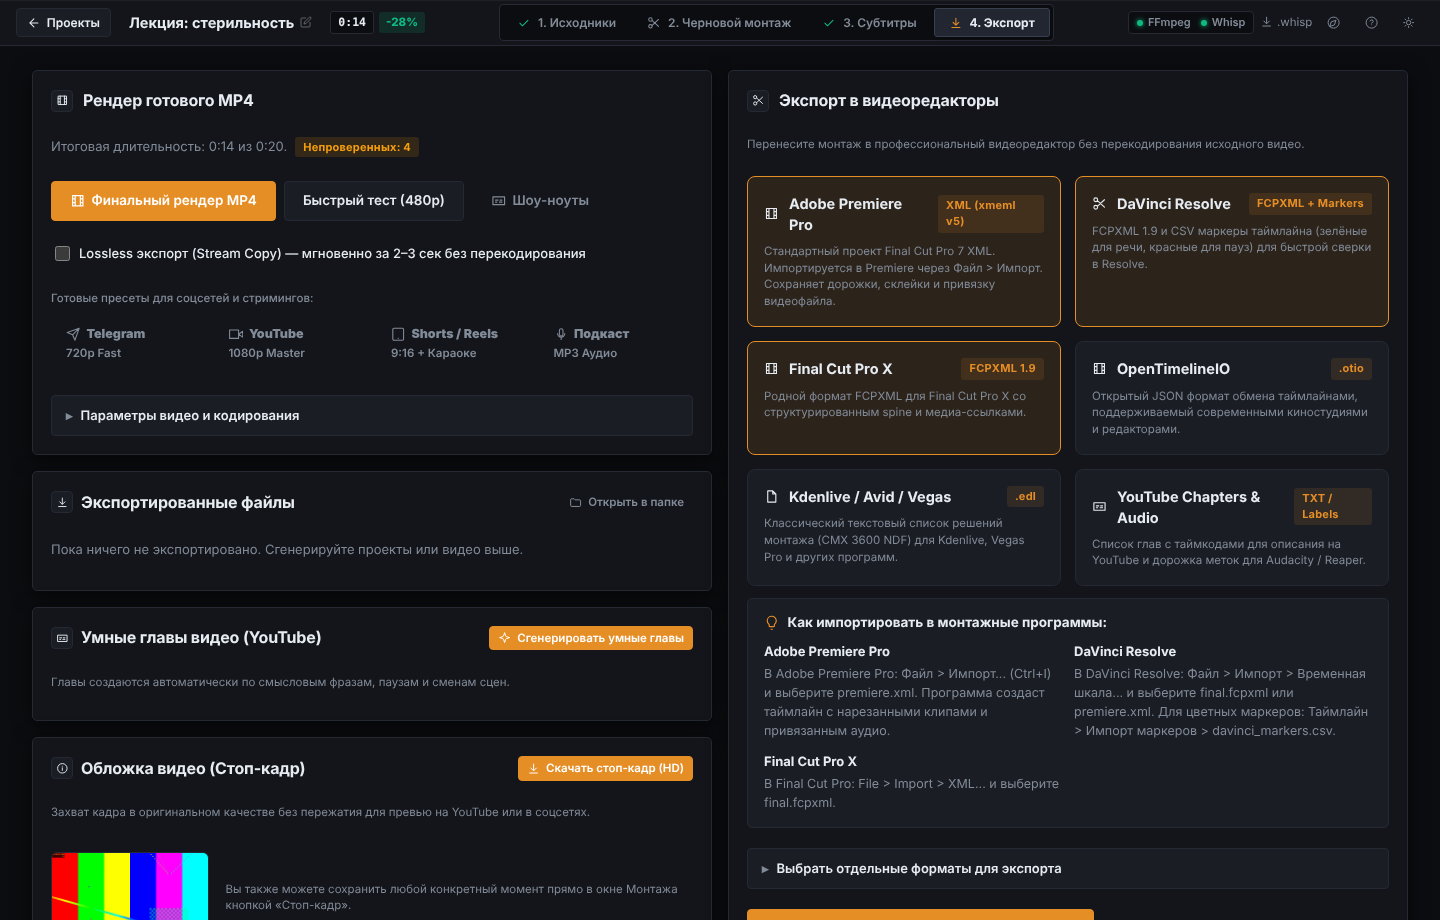
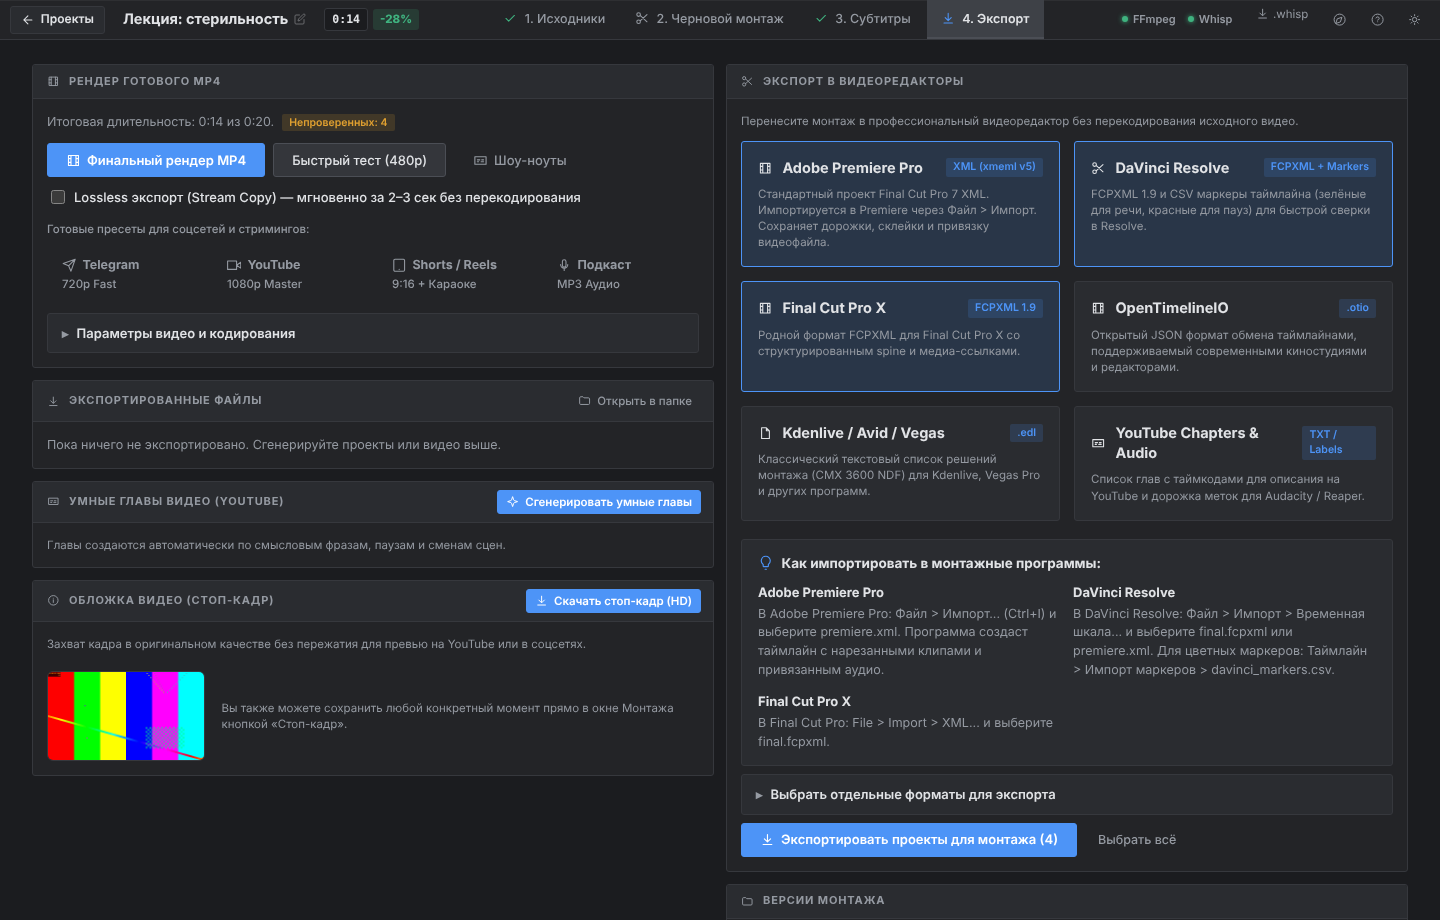
UI: профессиональный проход: нейтральный графит, один синий акцент, плоские панели с заголовками, вкладки с подчёркиванием, компактные кнопки и поля
Claude-Session: https://claude.ai/code/session_01DF561mnDsFx3onGChxrfzS

diff --git a/frontend/src/styles.css b/frontend/src/styles.css
@@ -1562,3 +1562,132 @@ label.nle-btn-ghost { flex-direction: row; align-items: center; gap: 6px; font-s
 .bar > i { display: block; height: 100%; background: var(--accent); }
 .platform-preset-btn { border: 1px solid var(--line); background: var(--panel2); }
 .platform-preset-btn:hover:not(:disabled) { border-color: var(--line-strong); }
+
+/* ==========================================================================
+   ПРОФЕССИОНАЛЬНЫЙ ПРОХОД: нейтральный графит, один акцент, плоские панели,
+   плотная сетка, тонкие разделители. Переопределяет токены и компоненты выше.
+   ========================================================================== */
+:root {
+  --bg: #1b1c1f; --panel: #232427; --panel2: #2a2c30; --raised: #34363b; --raised-hover: #3e4147;
+  --line: #36383d; --line-strong: #4b4e55; --text: #e1e3e6; --muted: #959aa2; --muted-soft: #666b73;
+  --accent: #4d94f7; --accent-hover: #6aa6f9; --accent-soft: rgba(77, 148, 247, 0.16); --on-accent: #fff;
+  --manual: #a78bfa; --manual-soft: rgba(167, 139, 250, 0.16);
+  --warn: #e0a030; --warn-soft: rgba(224, 160, 48, 0.16);
+  --keep: #3fb27f; --keep-soft: rgba(63, 178, 127, 0.16); --ok: #3fb27f; --ok-soft: rgba(63, 178, 127, 0.16);
+  --cut: #e5534b; --cut-soft: rgba(229, 83, 75, 0.16); --bad: #e5534b; --bad-soft: rgba(229, 83, 75, 0.16);
+  --timeline-bg: #151618; --track-bg: #1d1e21; --track-v1: #212225; --tc-bg: #141517; --code-bg: #151618;
+  --radius: 3px; --radius-sm: 3px; --shadow: none;
+}
+:root[data-theme="light"] {
+  --bg: #e4e6ea; --panel: #f6f7f9; --panel2: #ebedf0; --raised: #dfe2e6; --raised-hover: #d3d7dc;
+  --line: #cfd3d9; --line-strong: #aeb4bd; --text: #1d2026; --muted: #5d636d; --muted-soft: #80868f;
+  --accent: #2468d8; --accent-hover: #1a56bb; --accent-soft: rgba(36, 104, 216, 0.12);
+  --manual: #7c5ce0; --manual-soft: rgba(124, 92, 224, 0.12);
+  --timeline-bg: #d6d9de; --track-bg: #dfe2e6; --track-v1: #e8eaee; --tc-bg: #fff; --code-bg: #fff;
+  --shadow: none;
+}
+html, body { font-size: 12.5px; line-height: 1.4; }
+h1 { font-size: 18px; } h2 { font-size: 14px; } h3 { font-size: 13px; }
+* { scrollbar-width: thin; scrollbar-color: var(--line-strong) transparent; }
+*::-webkit-scrollbar { width: 10px; height: 10px; }
+*::-webkit-scrollbar-thumb { background: var(--line-strong); border-radius: 5px; border: 2px solid transparent; background-clip: content-box; }
+::selection { background: var(--accent-soft); }
+:focus-visible { outline: 2px solid var(--accent); outline-offset: 1px; }
+
+/* Шапка и вкладки: подчёркнутый текст вместо «таблеток» */
+.nle-manager-header { height: 40px; min-height: 40px; box-shadow: none; padding: 0 14px; background: var(--panel); }
+.nle-header-brand img { width: 22px; height: 22px; border-radius: 3px; }
+.brand-title { font-size: 12px; letter-spacing: .1em; }
+.nle-manager-tabs, .nle-workspaces { background: none; border: none; padding: 0; gap: 2px; align-self: stretch; }
+.nle-tab, .nle-workspace-tab {
+  border: none; border-radius: 0; background: none; box-shadow: none; padding: 0 14px; height: 100%;
+  border-bottom: 2px solid transparent; color: var(--muted); font-weight: 500; font-size: 12.5px;
+}
+.nle-tab:hover, .nle-workspace-tab:hover { background: var(--panel2); color: var(--text); }
+.nle-tab.active, .nle-workspace-tab.active { background: none; box-shadow: none; border: none; border-bottom: 2px solid var(--accent); color: var(--text); font-weight: 600; }
+.nle-engine-status { background: none; border: none; padding: 0; gap: 12px; }
+.nle-header { height: 40px; min-height: 40px; padding: 0 10px; }
+
+/* Кнопки и поля: компактные, плоские */
+button, a.btn { height: 28px; padding: 0 12px; font-weight: 500; font-size: 12.5px; background: var(--raised); border-color: var(--line-strong); }
+button:hover:not(:disabled), a.btn:hover { background: var(--raised-hover); }
+button:active:not(:disabled), a.btn:active { transform: none; background: var(--panel2); }
+button.primary, a.btn.primary { background: var(--accent); border-color: var(--accent); color: #fff; font-weight: 600; }
+button.big, a.btn.big { height: 34px; padding: 0 18px; font-size: 13px; }
+button.small, a.btn.small { height: 24px; padding: 0 8px; font-size: 11.5px; }
+button.ghost, .nle-btn-ghost { background: transparent; border-color: transparent; }
+.nle-btn-ghost { height: 28px; padding: 0 10px; }
+input, select, textarea { height: 28px; padding: 0 9px; font-size: 12.5px; background: var(--bg); border-color: var(--line-strong); }
+textarea { height: auto; padding: 7px 9px; }
+input[type=checkbox], input[type=radio] { height: 14px; width: 14px; }
+select { padding-right: 24px; }
+label { font-weight: 500; font-size: 11.5px; }
+.badge { border-radius: 2px; font-weight: 600; font-size: 10.5px; padding: 1px 6px; text-transform: none; letter-spacing: 0; }
+kbd { border-radius: 2px; }
+
+/* Панели вместо карточек: заголовок-полоса, без теней и скруглений */
+.card { padding: 0; gap: 0; border-radius: var(--radius); box-shadow: none; background: var(--panel); overflow: hidden; }
+.card > .card-title { padding: 8px 12px; background: var(--panel2); border-bottom: 1px solid var(--line); gap: 8px; min-height: 34px; }
+.card > .card-title h2, .card > .card-title h3 { font-size: 11px; font-weight: 700; letter-spacing: .08em; text-transform: uppercase; color: var(--muted); }
+.card > .card-title .num { background: none; border: none; width: 16px; height: 16px; color: var(--muted); }
+.card > .card-title .num.done { background: none; color: var(--ok); }
+.card > *:not(.card-title) { margin-left: 14px; margin-right: 14px; }
+.card > .card-title + * { margin-top: 14px; }
+.card > *:last-child { margin-bottom: 14px; }
+.card > details.more, .card > .notice { margin-left: 14px; margin-right: 14px; }
+.card > .row.wrap > .grow, .card > .row { min-width: 0; }
+.grid2 { gap: 12px; } .stack { gap: 12px; }
+.notice { border-radius: 3px; padding: 8px 12px; }
+.next-bar, .nle-next-bar { border-radius: 3px; box-shadow: none; padding: 10px 14px; margin-top: 12px; }
+.profile, .model, .pattern-card, .nle-card, .nle-scene-card { border-radius: 3px; }
+.profile.on, .pattern-card.active { box-shadow: none; border-color: var(--accent); background: var(--accent-soft); }
+.profile { padding: 12px; gap: 6px; } .profile b { font-size: 13px; }
+details.more { border-radius: 3px; background: var(--panel2); }
+.pick { border-radius: 3px; padding: 16px; }
+.filecard { border-radius: 3px; }
+.empty { padding: 28px 16px; }
+.page { padding: 20px 24px 40px; gap: 12px; }
+.page-head h1, .page-head h2 { font-size: 18px; }
+
+/* Список проектов: сетка и карточки без «лифта» */
+.nle-manager-page { padding: 18px 24px 40px; }
+.nle-page-title { font-size: 20px; }
+.nle-proj-grid { grid-template-columns: repeat(auto-fill, minmax(260px, 1fr)); gap: 12px; }
+.nle-proj-card { border-radius: 3px; box-shadow: none; transition: border-color .1s; }
+.nle-proj-card:hover { transform: none; box-shadow: none; border-color: var(--accent); }
+.nle-proj-card .body { padding: 10px 12px; gap: 6px; }
+.pname-text { font-size: 13px; font-weight: 600; }
+.nle-drop-banner { border-radius: 3px; padding: 12px 16px; background: transparent; border: 1px dashed var(--line-strong); }
+.nle-drop-icon-box { background: none; border: none; width: 32px; height: 32px; }
+.nle-search-input, .nle-select { height: 28px; }
+.nle-counter-badge { border-radius: 2px; }
+
+/* Таблица решений и монтаж */
+.nle-table th { font-size: 10px; letter-spacing: .08em; text-transform: uppercase; font-weight: 700; color: var(--muted); background: var(--panel2); }
+.nle-table td { padding-top: 5px; padding-bottom: 5px; }
+.nle-table tbody tr:hover { background: var(--panel2); }
+.nle-btn-micro { border-radius: 2px; height: 22px; width: 22px; padding: 0; }
+.studio-panel-bar, .nle-timeline-toolbar, .nle-decisions-toolbar { background: var(--panel2); }
+.nle-tool-btn { border-radius: 3px; height: 26px; }
+.nle-tool-btn.active { background: var(--accent); border-color: var(--accent); }
+.nle-insp-tab.active { box-shadow: inset 0 -2px 0 var(--accent); color: var(--text); }
+.nle-btn-play { background: var(--accent); }
+.nle-btn-play:hover { background: var(--accent-hover); }
+.nle-check-chip { border-radius: 3px; }
+.nle-back-btn { border-radius: 3px; height: 26px; }
+.rec-indicator { color: var(--cut); }
+.tour-highlight-ring { box-shadow: 0 0 0 4px var(--accent-soft), 0 0 22px rgba(77, 148, 247, 0.4); }
+
+/* Диалоги и плавающие панели */
+.dialog, .modal-backdrop > .modal, .tour-card, .dock { border-radius: 6px; box-shadow: 0 12px 40px rgba(0, 0, 0, .5); }
+.modal, .modal-backdrop { backdrop-filter: none; }
+.dialog { padding: 20px; }
+button { min-height: 28px; height: auto; white-space: nowrap; }
+button.small { min-height: 24px; }
+.nle-check-chip { flex-direction: row; align-items: center; gap: 6px; white-space: nowrap; font-size: 11.5px; color: var(--muted); }
+.nle-decisions-toolbar { gap: 8px; flex-wrap: wrap; }
+.nle-decisions-toolbar label { flex-direction: row; align-items: center; gap: 6px; white-space: nowrap; }
+.nle-decisions-toolbar button { white-space: nowrap; }
+.nle-transport-bar { gap: 12px; }
+.card-title h2 { white-space: nowrap; }
+.nle-help-box { margin-top: 14px !important; } .nle-grid { margin-bottom: 4px; }
